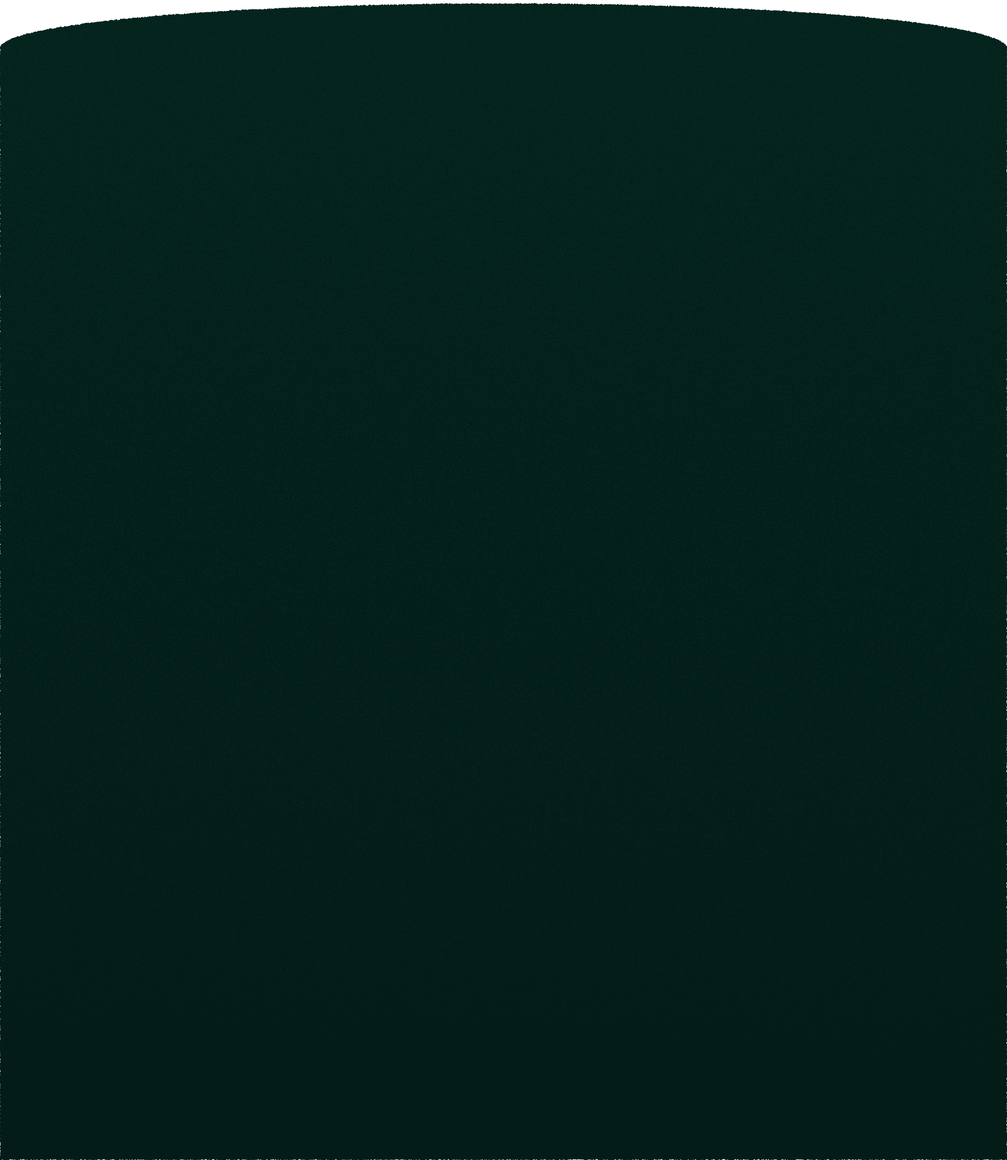
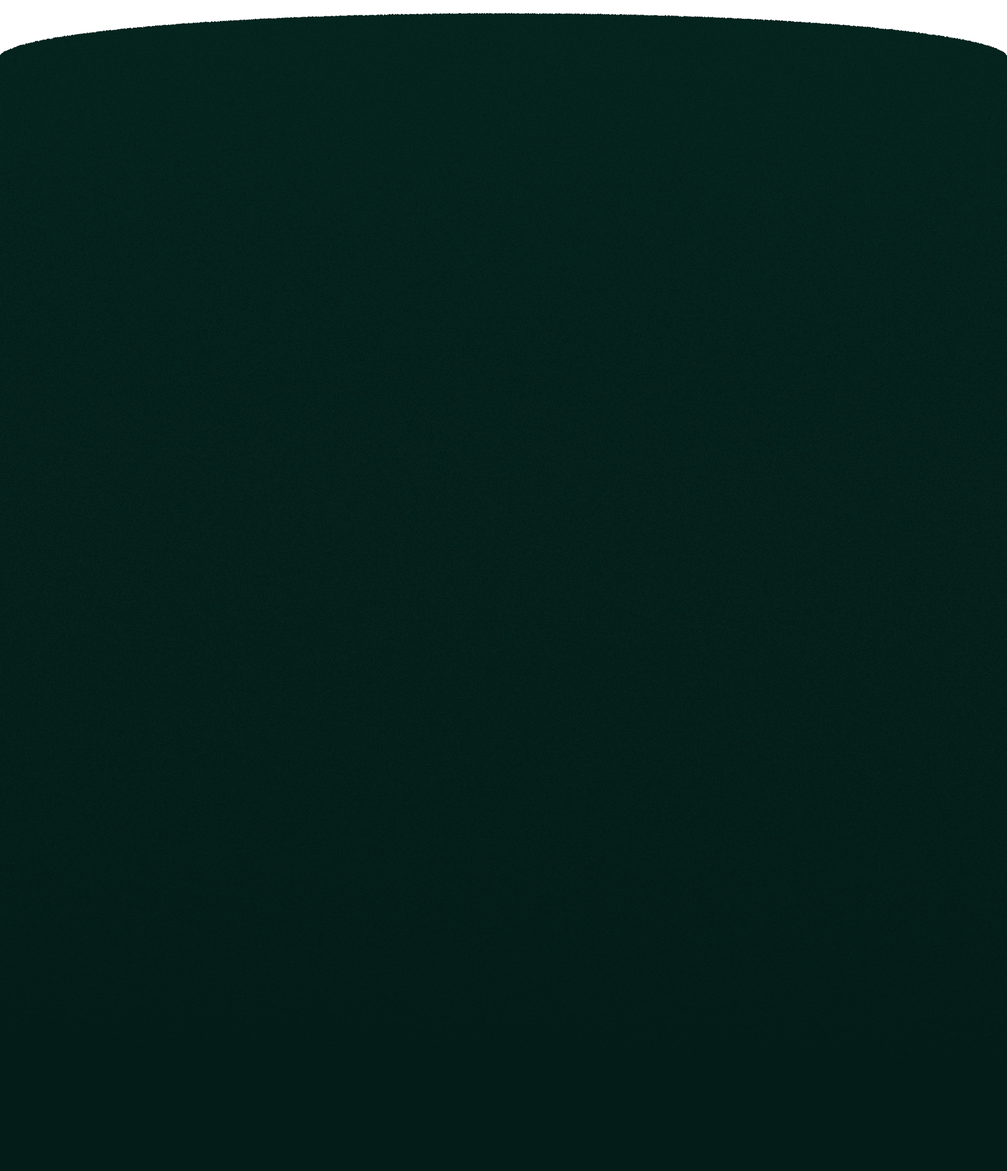
Skrrrtt

Changed region(s): [[0.0311, 0.0, 0.9637, 0.031], [0.9637, 0.031, 1.0, 0.0621], [0.0, 0.031, 0.0311, 0.0621]]

diff --git a/css/style.css b/css/style.css
@@ -186,7 +186,7 @@ li a{
 	background:url("../img/trees.png");
 	background-size:100%;
 	background-position: bottom center;
-	margin-top:275px;
+	margin-top:180px;
 	background-repeat: no-repeat;
 	z-index: 2;
 }
